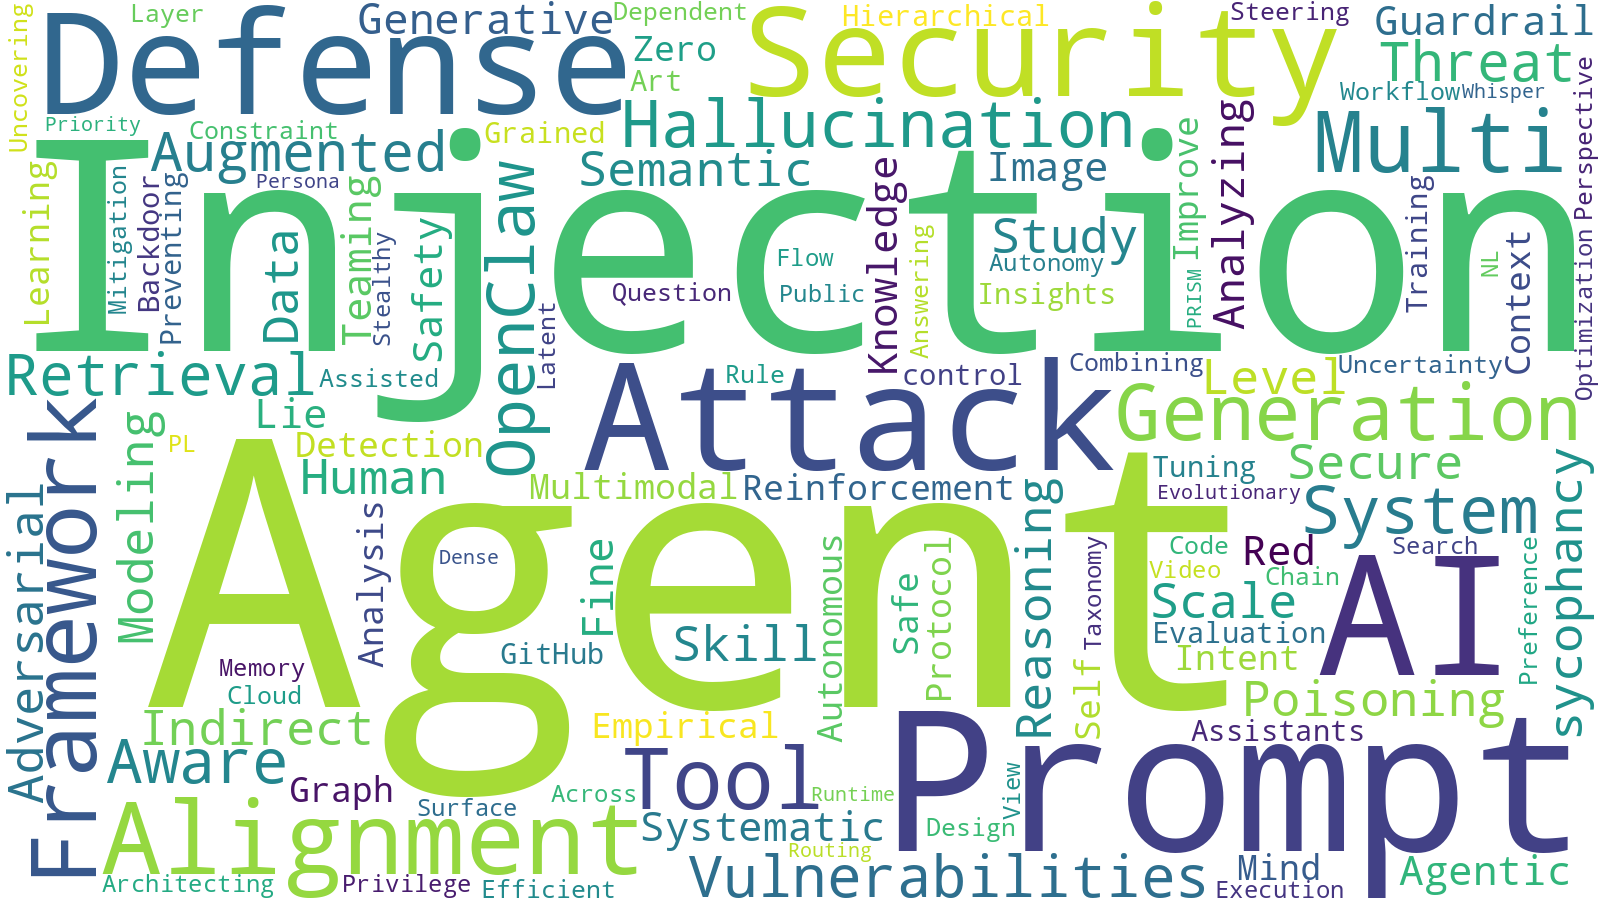
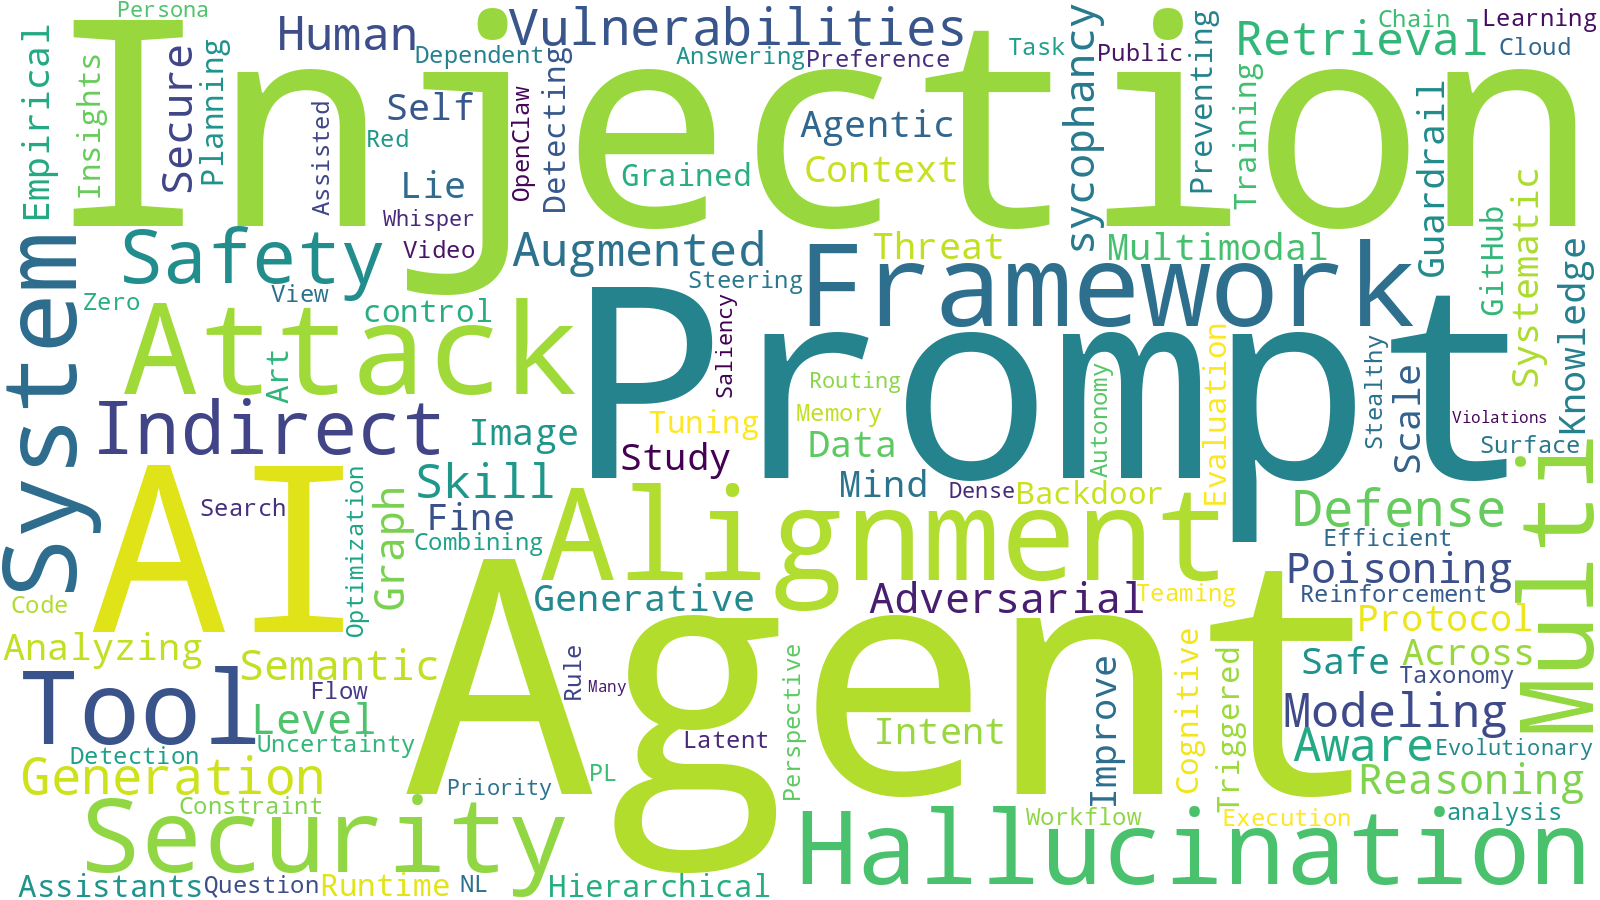
Github Action Automatic Update LLM Arxiv Papers

diff --git a/README.md b/README.md
@@ -1,4 +1,4 @@
-## Updated on 2026.04.13
+## Updated on 2026.04.14
 <details>
   <summary>Table of Contents</summary>
   <ol>
@@ -17,6 +17,11 @@
 
 |Publish Date|Title|Authors|PDF|Code|
 |---|---|---|---|---|
+|**2026-04-13**|**Detecting Safety Violations Across Many Agent Traces**|Adam Stein et.al.|[2604.11806](http://arxiv.org/abs/2604.11806)|null|
+|**2026-04-13**|**ClawGuard: A Runtime Security Framework for Tool-Augmented LLM Agents Against Indirect Prompt Injection**|Wei Zhao et.al.|[2604.11790](http://arxiv.org/abs/2604.11790)|null|
+|**2026-04-12**|**The Blind Spot of Agent Safety: How Benign User Instructions Expose Critical Vulnerabilities in Computer-Use Agents**|Xuwei Ding et.al.|[2604.10577](http://arxiv.org/abs/2604.10577)|null|
+|**2026-04-11**|**STARS: Skill-Triggered Audit for Request-Conditioned Invocation Safety in Agent Systems**|Guijia Zhang et.al.|[2604.10286](http://arxiv.org/abs/2604.10286)|null|
+|**2026-04-11**|**PlanGuard: Defending Agents against Indirect Prompt Injection via Planning-based Consistency Verification**|Guangyu Gong et.al.|[2604.10134](http://arxiv.org/abs/2604.10134)|null|
 |**2026-04-10**|**BadSkill: Backdoor Attacks on Agent Skills via Model-in-Skill Poisoning**|Guiyao Tie et.al.|[2604.09378](http://arxiv.org/abs/2604.09378)|null|
 |**2026-04-10**|**Leave My Images Alone: Preventing Multi-Modal Large Language Models from Analyzing Images via Visual Prompt Injection**|Zedian Shao et.al.|[2604.09024](http://arxiv.org/abs/2604.09024)|null|
 |**2026-04-09**|**PIArena: A Platform for Prompt Injection Evaluation**|Runpeng Geng et.al.|[2604.08499](http://arxiv.org/abs/2604.08499)|null|
@@ -147,12 +152,13 @@
 |**2026-02-01**|**SMCP: Secure Model Context Protocol**|Xinyi Hou et.al.|[2602.01129](http://arxiv.org/abs/2602.01129)|null|
 |**2026-01-31**|**Bypassing Prompt Injection Detectors through Evasive Injections**|Md Jahedur Rahman et.al.|[2602.00750](http://arxiv.org/abs/2602.00750)|null|
 
-<p align=right>(<a href=#updated-on-20260413>back to top</a>)</p>
+<p align=right>(<a href=#updated-on-20260414>back to top</a>)</p>
 
 ## LLM Alignment
 
 |Publish Date|Title|Authors|PDF|Code|
 |---|---|---|---|---|
+|**2026-04-12**|**CogInstrument: Modeling Cognitive Processes for Bidirectional Human-LLM Alignment in Planning Tasks**|Anqi Wang et.al.|[2604.10587](http://arxiv.org/abs/2604.10587)|null|
 |**2026-04-09**|**Cards Against LLMs: Benchmarking Humor Alignment in Large Language Models**|Yousra Fettach et.al.|[2604.08757](http://arxiv.org/abs/2604.08757)|null|
 |**2026-04-09**|**ProMedical: Hierarchical Fine-Grained Criteria Modeling for Medical LLM Alignment via Explicit Injection**|He Geng et.al.|[2604.08326](http://arxiv.org/abs/2604.08326)|null|
 |**2026-04-09**|**The Art of (Mis)alignment: How Fine-Tuning Methods Effectively Misalign and Realign LLMs in Post-Training**|Rui Zhang et.al.|[2604.07754](http://arxiv.org/abs/2604.07754)|null|
@@ -209,12 +215,13 @@
 |**2026-01-24**|**Conformal Feedback Alignment: Quantifying Answer-Level Reliability for Robust LLM Alignment**|Tiejin Chen et.al.|[2601.17329](http://arxiv.org/abs/2601.17329)|null|
 |**2026-01-20**|**CommunityBench: Benchmarking Community-Level Alignment across Diverse Groups and Tasks**|Jiayu Lin et.al.|[2601.13669](http://arxiv.org/abs/2601.13669)|null|
 
-<p align=right>(<a href=#updated-on-20260413>back to top</a>)</p>
+<p align=right>(<a href=#updated-on-20260414>back to top</a>)</p>
 
 ## LLM Hallucination
 
 |Publish Date|Title|Authors|PDF|Code|
 |---|---|---|---|---|
+|**2026-04-13**|**CausalGaze: Unveiling Hallucinations via Counterfactual Graph Intervention in Large Language Models**|Linggang Kong et.al.|[2604.11087](http://arxiv.org/abs/2604.11087)|null|
 |**2026-04-08**|**ReDAct: Uncertainty-Aware Deferral for LLM Agents**|Dzianis Piatrashyn et.al.|[2604.07036](http://arxiv.org/abs/2604.07036)|null|
 |**2026-04-07**|**LAG-XAI: A Lie-Inspired Affine Geometric Framework for Interpretable Paraphrasing in Transformer Latent Spaces**|Olexander Mazurets et.al.|[2604.06086](http://arxiv.org/abs/2604.06086)|null|
 |**2026-04-07**|**Joint Knowledge Base Completion and Question Answering by Combining Large Language Models and Small Language Models**|Yinan Liu et.al.|[2604.05875](http://arxiv.org/abs/2604.05875)|null|
@@ -254,7 +261,7 @@
 |**2026-01-20**|**AI Sycophancy: How Users Flag and Respond**|Kazi Noshin et.al.|[2601.10467](http://arxiv.org/abs/2601.10467)|null|
 |**2026-01-12**|**Automating API Documentation from Crowdsourced Knowledge**|Bonan Kou et.al.|[2601.08036](http://arxiv.org/abs/2601.08036)|null|
 
-<p align=right>(<a href=#updated-on-20260413>back to top</a>)</p>
+<p align=right>(<a href=#updated-on-20260414>back to top</a>)</p>
 
 ## LLM Privacy
 
@@ -276,5 +283,5 @@
 |**2025-10-21**|**Building Trust in Clinical LLMs: Bias Analysis and Dataset Transparency**|Svetlana Maslenkova et.al.|[2510.18556](http://arxiv.org/abs/2510.18556)|null|
 |**2025-10-12**|**Therapeutic AI and the Hidden Risks of Over-Disclosure: An Embedded AI-Literacy Framework for Mental Health Privacy**|Soraya S. Anvari et.al.|[2510.10805](http://arxiv.org/abs/2510.10805)|null|
 
-<p align=right>(<a href=#updated-on-20260413>back to top</a>)</p>
+<p align=right>(<a href=#updated-on-20260414>back to top</a>)</p>
 

diff --git a/docs/index.md b/docs/index.md
@@ -2,11 +2,16 @@
 layout: default
 ---
 
-## Updated on 2026.04.13
+## Updated on 2026.04.14
 ## LLM Safety
 
 | Publish Date | Title | Authors | PDF | Code |
 |:---------|:-----------------------|:---------|:------|:------|
+|**2026-04-13**|**Detecting Safety Violations Across Many Agent Traces**|Adam Stein et.al.|[2604.11806](http://arxiv.org/abs/2604.11806)|null|
+|**2026-04-13**|**ClawGuard: A Runtime Security Framework for Tool-Augmented LLM Agents Against Indirect Prompt Injection**|Wei Zhao et.al.|[2604.11790](http://arxiv.org/abs/2604.11790)|null|
+|**2026-04-12**|**The Blind Spot of Agent Safety: How Benign User Instructions Expose Critical Vulnerabilities in Computer-Use Agents**|Xuwei Ding et.al.|[2604.10577](http://arxiv.org/abs/2604.10577)|null|
+|**2026-04-11**|**STARS: Skill-Triggered Audit for Request-Conditioned Invocation Safety in Agent Systems**|Guijia Zhang et.al.|[2604.10286](http://arxiv.org/abs/2604.10286)|null|
+|**2026-04-11**|**PlanGuard: Defending Agents against Indirect Prompt Injection via Planning-based Consistency Verification**|Guangyu Gong et.al.|[2604.10134](http://arxiv.org/abs/2604.10134)|null|
 |**2026-04-10**|**BadSkill: Backdoor Attacks on Agent Skills via Model-in-Skill Poisoning**|Guiyao Tie et.al.|[2604.09378](http://arxiv.org/abs/2604.09378)|null|
 |**2026-04-10**|**Leave My Images Alone: Preventing Multi-Modal Large Language Models from Analyzing Images via Visual Prompt Injection**|Zedian Shao et.al.|[2604.09024](http://arxiv.org/abs/2604.09024)|null|
 |**2026-04-09**|**PIArena: A Platform for Prompt Injection Evaluation**|Runpeng Geng et.al.|[2604.08499](http://arxiv.org/abs/2604.08499)|null|
@@ -141,6 +146,7 @@ layout: default
 
 | Publish Date | Title | Authors | PDF | Code |
 |:---------|:-----------------------|:---------|:------|:------|
+|**2026-04-12**|**CogInstrument: Modeling Cognitive Processes for Bidirectional Human-LLM Alignment in Planning Tasks**|Anqi Wang et.al.|[2604.10587](http://arxiv.org/abs/2604.10587)|null|
 |**2026-04-09**|**Cards Against LLMs: Benchmarking Humor Alignment in Large Language Models**|Yousra Fettach et.al.|[2604.08757](http://arxiv.org/abs/2604.08757)|null|
 |**2026-04-09**|**ProMedical: Hierarchical Fine-Grained Criteria Modeling for Medical LLM Alignment via Explicit Injection**|He Geng et.al.|[2604.08326](http://arxiv.org/abs/2604.08326)|null|
 |**2026-04-09**|**The Art of (Mis)alignment: How Fine-Tuning Methods Effectively Misalign and Realign LLMs in Post-Training**|Rui Zhang et.al.|[2604.07754](http://arxiv.org/abs/2604.07754)|null|
@@ -201,6 +207,7 @@ layout: default
 
 | Publish Date | Title | Authors | PDF | Code |
 |:---------|:-----------------------|:---------|:------|:------|
+|**2026-04-13**|**CausalGaze: Unveiling Hallucinations via Counterfactual Graph Intervention in Large Language Models**|Linggang Kong et.al.|[2604.11087](http://arxiv.org/abs/2604.11087)|null|
 |**2026-04-08**|**ReDAct: Uncertainty-Aware Deferral for LLM Agents**|Dzianis Piatrashyn et.al.|[2604.07036](http://arxiv.org/abs/2604.07036)|null|
 |**2026-04-07**|**LAG-XAI: A Lie-Inspired Affine Geometric Framework for Interpretable Paraphrasing in Transformer Latent Spaces**|Olexander Mazurets et.al.|[2604.06086](http://arxiv.org/abs/2604.06086)|null|
 |**2026-04-07**|**Joint Knowledge Base Completion and Question Answering by Combining Large Language Models and Small Language Models**|Yinan Liu et.al.|[2604.05875](http://arxiv.org/abs/2604.05875)|null|
